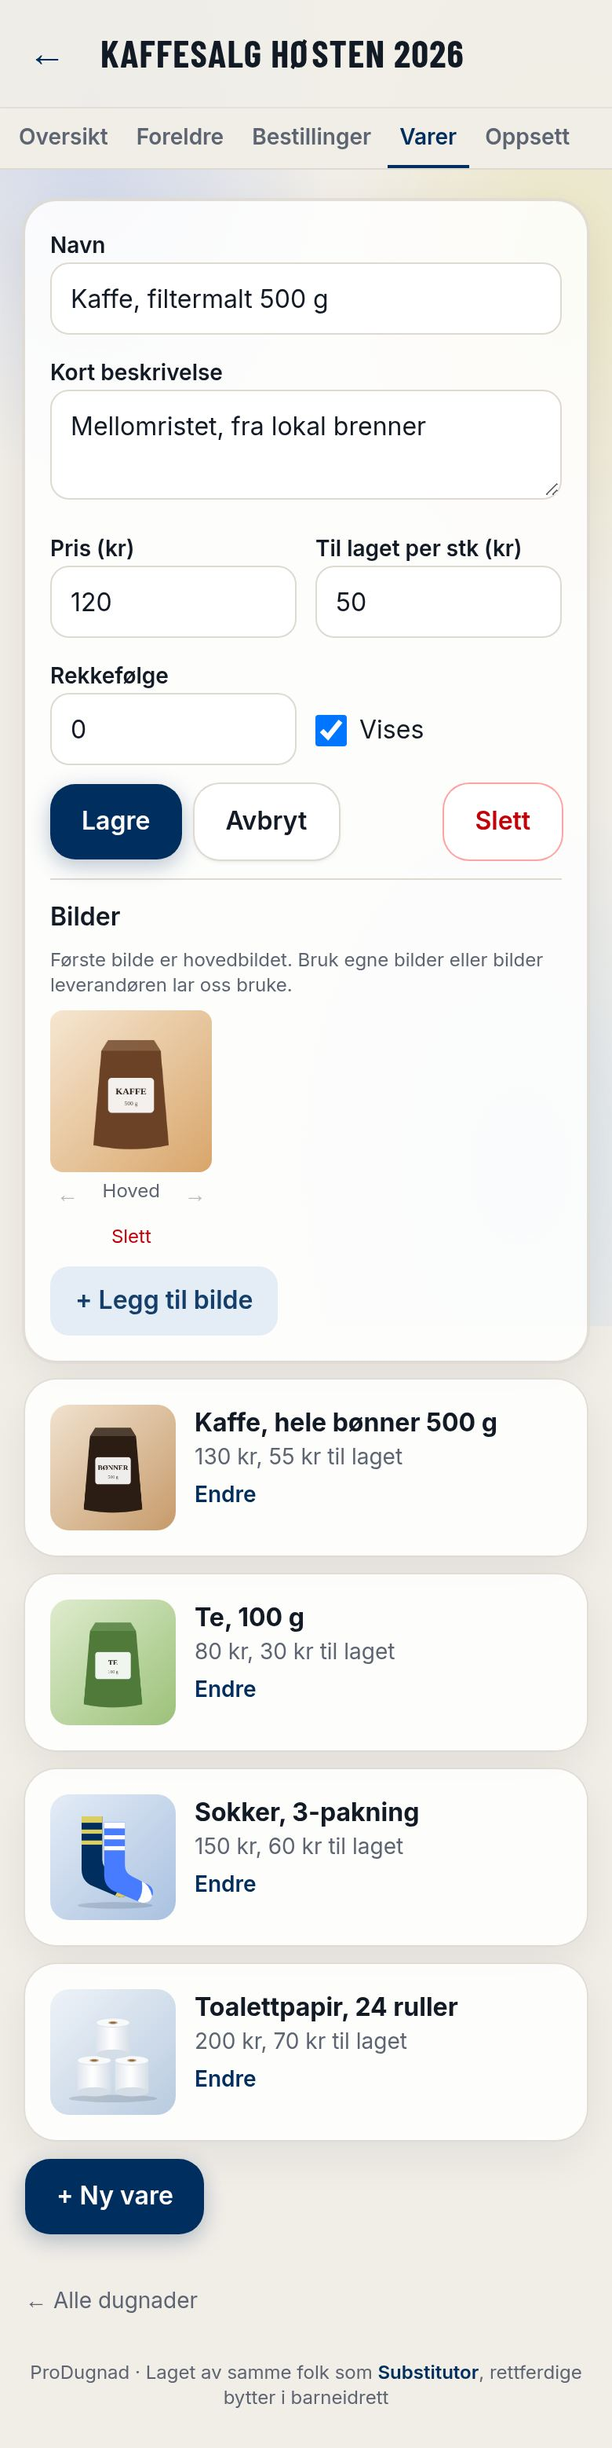
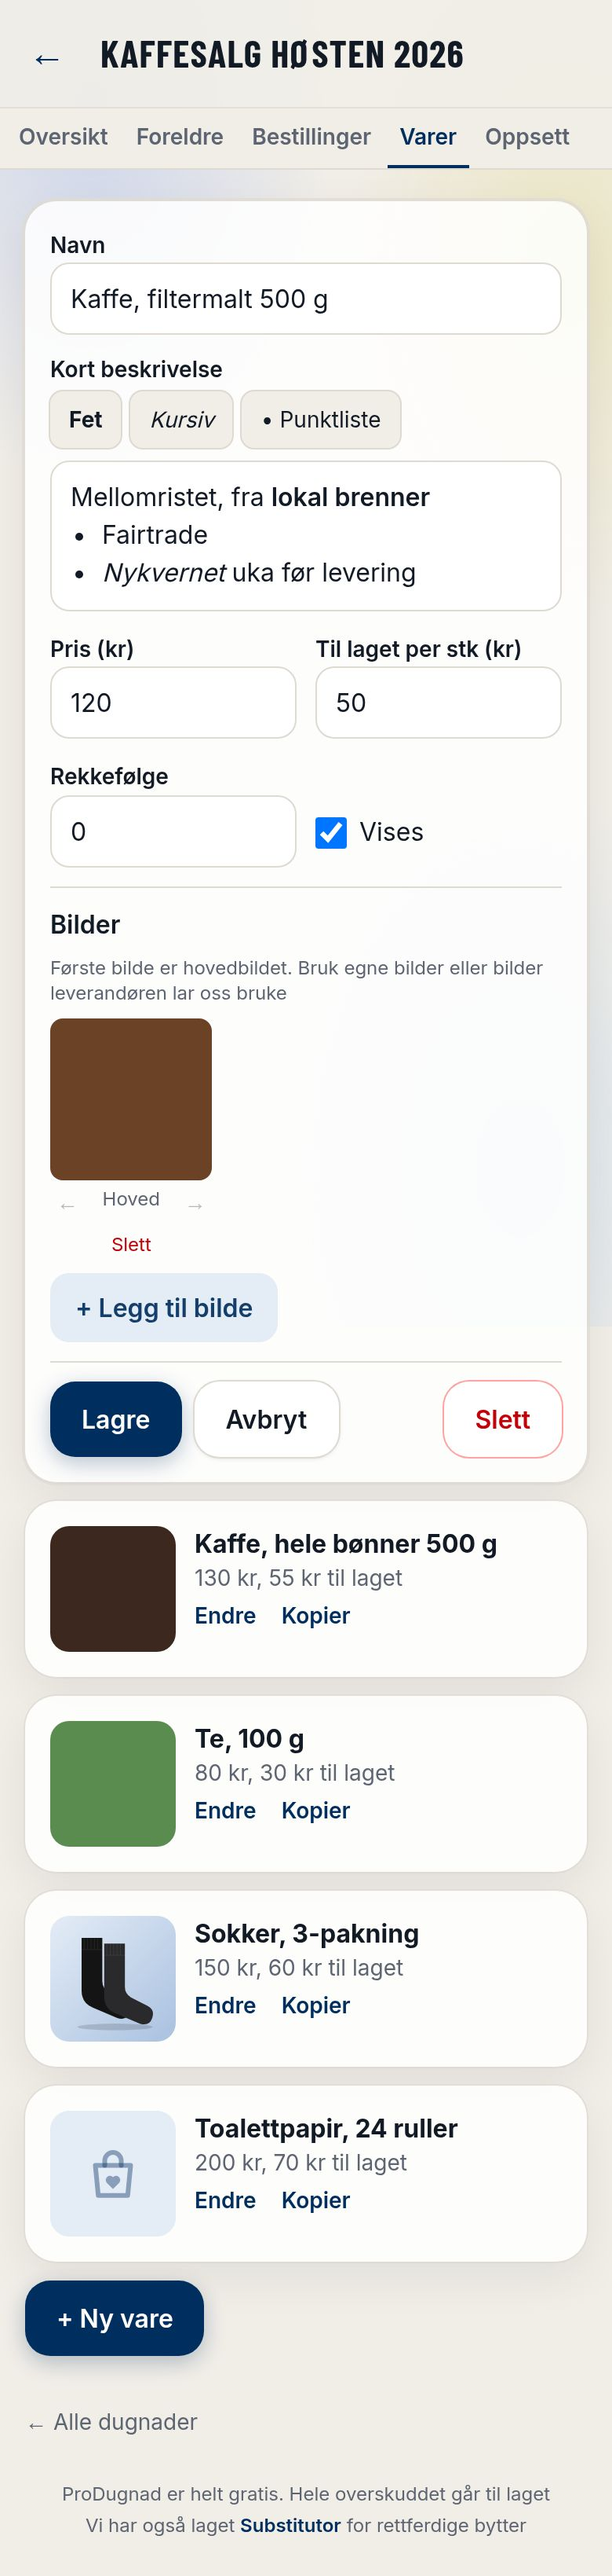
Docs: texts and screenshots for deleting a dugnad, copying products, the description editor and removing parents; log of 21 November

diff --git a/docs/tekster.md b/docs/tekster.md
@@ -1,6 +1,6 @@
 # ProDugnad: all texts
 
-Every text in the app, the emails and the link previews, as of 7 November 2026, with screenshots from the test data (tap a picture to see it full size). Numbered so changes can be referred to ("#23 → …"). Words in *italics* are filled in by the app; the examples use Ola Hansen, Emma, Kari Nordmann and Ready G2018.
+Every text in the app, the emails and the link previews, as of 22 November 2026, with screenshots from the test data (tap a picture to see it full size). Numbered so changes can be referred to ("#23 → …"). Words in *italics* are filled in by the app; the examples use Ola Hansen, Emma, Kari Nordmann and Ready G2018.
 
 ## A. Friend order page (`/k/…`), the page most people see
 
@@ -15,7 +15,7 @@ Every text in the app, the emails and the link previews, as of 7 November 2026, 
 | A3 | Under the title | Du bestiller via **Ola Hansen**, forelder til Emma |
 | A4 | Under that | *Alt overskudd går til cupavgifter og reiser for laget i 2027* |
 | A6 | Above the products | Bestill innen 20. november 2026 |
-| A7 | Product card | *Kaffe, filtermalt 500 g* / *Mellomristet, fra lokal brenner* / *120 kr* |
+| A7 | Product card | *Kaffe, filtermalt 500 g* / *Mellomristet, fra lokal brenner* (the description can have **fet**, *kursiv* and bullet points) / *120 kr* |
 | A8 | Total box | Totalt |
 | A9 | Name field | Fornavnet ditt |
 | A10 | Button | Bestill |
@@ -197,9 +197,9 @@ Every text in the app, the emails and the link previews, as of 7 November 2026, 
 
 ## I. Admin: a campaign
 
-<p><a href="screenshots/i-oversikt.jpg"><img src="screenshots/i-oversikt.jpg" width="230" alt="Oversikt" title="Oversikt"></a> <a href="screenshots/i-foreldre.jpg"><img src="screenshots/i-foreldre.jpg" width="230" alt="Foreldre (åpnet)" title="Foreldre (åpnet)"></a> <a href="screenshots/i-bestillinger.jpg"><img src="screenshots/i-bestillinger.jpg" width="230" alt="Bestillinger" title="Bestillinger"></a> <a href="screenshots/i-varer.jpg"><img src="screenshots/i-varer.jpg" width="230" alt="Varer" title="Varer"></a> <a href="screenshots/i-vare-endre.jpg"><img src="screenshots/i-vare-endre.jpg" width="230" alt="Endre vare med bilder" title="Endre vare med bilder"></a> <a href="screenshots/i-oppsett.jpg"><img src="screenshots/i-oppsett.jpg" width="230" alt="Oppsett" title="Oppsett"></a> <a href="screenshots/i-oppsett-hva-som-vises.jpg"><img src="screenshots/i-oppsett-hva-som-vises.jpg" width="230" alt="Hva som vises" title="Hva som vises"></a> <a href="screenshots/i-avslutning.jpg"><img src="screenshots/i-avslutning.jpg" width="230" alt="Etter avslutning" title="Etter avslutning"></a> <a href="screenshots/i-alle-pakkelister.jpg"><img src="screenshots/i-alle-pakkelister.jpg" width="230" alt="Pakkeliste per forelder" title="Pakkeliste per forelder"></a></p>
+<p><a href="screenshots/i-oversikt.jpg"><img src="screenshots/i-oversikt.jpg" width="230" alt="Oversikt" title="Oversikt"></a> <a href="screenshots/i-foreldre.jpg"><img src="screenshots/i-foreldre.jpg" width="230" alt="Foreldre (åpnet)" title="Foreldre (åpnet)"></a> <a href="screenshots/i-bestillinger.jpg"><img src="screenshots/i-bestillinger.jpg" width="230" alt="Bestillinger" title="Bestillinger"></a> <a href="screenshots/i-varer.jpg"><img src="screenshots/i-varer.jpg" width="230" alt="Varer" title="Varer"></a> <a href="screenshots/i-vare-endre.jpg"><img src="screenshots/i-vare-endre.jpg" width="230" alt="Endre vare med bilder" title="Endre vare med bilder"></a> <a href="screenshots/i-oppsett.jpg"><img src="screenshots/i-oppsett.jpg" width="230" alt="Oppsett" title="Oppsett"></a> <a href="screenshots/i-slett-dugnad-knapp.jpg"><img src="screenshots/i-slett-dugnad-knapp.jpg" width="230" alt="Slett dugnaden (Oppsett, nederst)" title="Slett dugnaden (Oppsett, nederst)"></a> <a href="screenshots/i-slett-dugnad.jpg"><img src="screenshots/i-slett-dugnad.jpg" width="230" alt="Slette dugnaden? (skriv navnet)" title="Slette dugnaden? (skriv navnet)"></a> <a href="screenshots/i-fjern-forelder.jpg"><img src="screenshots/i-fjern-forelder.jpg" width="230" alt="Fjerne forelder? (skriv navnet)" title="Fjerne forelder? (skriv navnet)"></a> <a href="screenshots/i-oppsett-hva-som-vises.jpg"><img src="screenshots/i-oppsett-hva-som-vises.jpg" width="230" alt="Hva som vises" title="Hva som vises"></a> <a href="screenshots/i-avslutning.jpg"><img src="screenshots/i-avslutning.jpg" width="230" alt="Etter avslutning" title="Etter avslutning"></a> <a href="screenshots/i-alle-pakkelister.jpg"><img src="screenshots/i-alle-pakkelister.jpg" width="230" alt="Pakkeliste per forelder" title="Pakkeliste per forelder"></a></p>
 
-<sub>Oversikt · Foreldre (åpnet) · Bestillinger · Varer · Endre vare med bilder · Oppsett · Hva som vises · Etter avslutning · Pakkeliste per forelder</sub>
+<sub>Oversikt · Foreldre (åpnet) · Bestillinger · Varer · Endre vare med bilder · Oppsett · Slett dugnaden (Oppsett, nederst) · Slette dugnaden? (skriv navnet) · Fjerne forelder? (skriv navnet) · Hva som vises · Etter avslutning · Pakkeliste per forelder</sub>
 
 | # | Where | Text |
 |---|---|---|
@@ -216,12 +216,13 @@ Every text in the app, the emails and the link previews, as of 7 November 2026, 
 | I8 | Confirms | Låse bestillingene? Foreldre og venner kan ikke bestille eller endre etterpå · Låse opp bestillingene igjen? · Avslutte dugnaden? Avslutningsmeldingen vises da på alle sider · Åpne dugnaden igjen? |
 | I9 | Foreldre tab | Pakkeliste for alle foreldre → · Navn / Mest til laget · Emma · 6 bestillinger · **765 kr** til laget · Ola Hansen D-1 · Emma · 4 bestillinger · 0 kr / 1 370 kr · Oppgjort / Skylder 1 370 kr / Betalt 200 kr for mye |
 | I28 | Packing list for admins (per forelder) | Pakkeliste · 1 av 2 poser pakket / Alt er pakket (2 poser) · Igjen å pakke (12 stk) · Én pose per forelder. Trykk når posen er pakket. Se fordelingen per venn under hver forelder · Lise Berg · Jonas · 5 × Kaffe · 5 stk · Sendt · Fordeling per venn (1) → · Ingen bestillinger ennå |
-| I10 | Opened parent | Betalinger · Ingen registrert · Beløp (kr) · Dato · Registrer betaling fra Ola · Slett · Merk varer sendt / Varer sendt 7. november 2026 (angre) · Pakkeliste · Se forelderens side → |
+| I10 | Opened parent | Betalinger · Ingen registrert · Beløp (kr) · Dato · Registrer betaling fra Ola · Slett · Merk varer sendt / Varer sendt 7. november 2026 (angre) · Pakkeliste · Se forelderens side → · Fjern fra dugnaden |
 | I11 | Confirms | Slette denne betalingen? · Merke at varene er sendt til Ola Hansen? Forelderen får e-post |
+| I30 | Remove a parent (confirm) | Fjerne *Ola Hansen* fra dugnaden? · Dette slettes for godt: *4 bestillinger (565 kr til laget)* og *1 betaling (200 kr)* / Forelderen har ingen bestillinger eller betalinger. Bestillingslenken slutter å virke. Brukeren beholdes, så forelderen kan melde seg på igjen · Skriv «*Ola Hansen*» for å bekrefte (only when there are orders or payments) · Avbryt · Fjern |
 | I12 | Empty | Ingen foreldre har meldt seg på ennå. Del påmeldingslenken fra Oversikt |
 | I13 | Bestillinger tab | Alle foreldre · Alle typer · Alle / Ubetalt / Betalt / Levert · 5 bestillinger, 1 970 kr · D-1 · K7 · Kari · via Ola Hansen · 7. nov., 10:17 |
-| I14 | Varer tab | 120 kr, 50 kr til laget · Skjult · Endre · + Ny vare |
-| I15 | Product form | Navn · Kort beskrivelse · Pris (kr) · Til laget per stk (kr) · Rekkefølge · Vises · Lagre · Avbryt · Slett |
+| I14 | Varer tab | 120 kr, 50 kr til laget · Skjult · Endre · Kopier / Kopierer … · + Ny vare · A copy is called *Kaffe, filtermalt 500 g* (kopi), starts hidden and opens for editing |
+| I15 | Product form | Navn · Kort beskrivelse (with the buttons Fet · Kursiv · • Punktliste; what you see is what friends see) · Pris (kr) · Til laget per stk (kr) · Rekkefølge · Vises · then the pictures (I16) · Lagre · Avbryt · Slett at the bottom |
 | I16 | Pictures | Bilder · Første bilde er hovedbildet. Bruk egne bilder eller bilder leverandøren lar oss bruke · Hoved · Gjør til hoved · Slett · + Legg til bilde · Laster opp … · Lagre varen først, så kan du legge til bilder |
 | I17 | Product errors | Beløpet til laget kan ikke være høyere enn prisen · Slette *Kaffe*? Går ikke hvis noen har bestilt den; skjul den i stedet · Kan ikke slette en vare som er bestilt. Fjern haken for «Vises» i stedet · Slette bildet? |
 | I18 | Oppsett: sections | Om dugnaden · Betaling fra foreldre · Tekster foreldrene deler · Avslutning |
@@ -231,6 +232,7 @@ Every text in the app, the emails and the link previews, as of 7 November 2026, 
 | I25 | Oppsett: Hva som vises | Fremdrift (Linjen med penger til laget og målet, for eksempel «815 kr til laget av 30 000 kr») · Bidrag per vare (For eksempel «50 kr av hver pose på 120 kr går til laget». Med «Alle» vises det også når lenken deles) · Ansvarlige og kontakt (Navn, rolle og telefon (hvis den enkelte har valgt det) for de ansvarlige. Med «Alle» svarer venner på e-post til kontaktpersonen, ellers til forelderen) · Ikke vist / Foreldre og admin / Alle, også venner · Som admin ser du alltid alt under Oversikt |
 | I22 | Oppsett: closing | Avslutningsmelding (Vises på alle sider når dugnaden er avsluttet: hvor mye som ble samlet inn og hva det betaler) |
 | I23 | Oppsett: button | Opprett dugnaden / Lagre / Lagret ✓ |
+| I29 | Oppsett: delete (bottom, existing campaigns only) | Slett dugnaden · Sletter dugnaden med varer, bilder, bestillinger og betalinger for godt. Vil du bare stoppe bestillingene, bruk «Avslutt dugnaden» under Oversikt · Slett dugnaden / Sletter … · Confirm: Slette *Kaffesalg høsten 2026*? · Varer, bilder, foreldrenes lenker, bestillinger og betalinger slettes for godt. Vennenes lenker slutter å virke. Foreldrenes brukere beholdes. Dette kan ikke angres · Skriv «*Kaffesalg høsten 2026*» for å bekrefte · Avbryt · Slett |
 | I24 | New campaign: defaults | Kaffesalg · Foreldre og supportere av … · Alt overskudd går til cupavgifter og reiser for laget |
 
 ## J. Default share texts (new campaigns; admins can change them under Oppsett)
@@ -305,4 +307,5 @@ Every text in the app, the emails and the link previews, as of 7 November 2026, 
 | M17 | Crash | Noe gikk galt · Siden kunne ikke vises. Prøv å laste inn på nytt. Hjelper ikke det, ta kontakt med de ansvarlige · Last inn på nytt |
 | M18 | After an update | Ny versjon · Appen er oppdatert. Last inn siden på nytt for å fortsette |
 | M19 | Unknown page | Fant ikke siden |
-| M20 | Confirm dialog (the app's own, never the browser's) | *the question* · Avbryt · *Slett / Lås / Lås opp / Avslutt / Åpne igjen / Send / Merk sendt / Gjør til admin / Fjern admin* |
+| M20 | Confirm dialog (the app's own, never the browser's) | *the question* · Avbryt · *Slett / Lås / Lås opp / Avslutt / Åpne igjen / Send / Merk sendt / Gjør til admin / Fjern admin / Fjern* · For things that can't be undone: Skriv «*navn*» for å bekrefte (the red button stays grey until the name is typed; capitals don't matter) |
+| M21 | Delete dugnad, wrong name | Navnet stemmer ikke med dugnadens navn |

diff --git a/docs/plan.md b/docs/plan.md
@@ -71,6 +71,8 @@ Also built early (phase 2 items that were cheap): lock/unlock and close, supplie
 - 21 Nov 2026: admins can delete a whole dugnad (Oppsett, bottom: «Slett dugnaden»). The confirm dialog asks them to type the dugnad's name (`typeToConfirm` in `Confirm.tsx`), checked again in SQL (`delete_campaign`, migration `20261121000001`). Products, pictures (also removed from storage), parents' links, orders, payments and queued emails go; parents' logins stay
 - 21 Nov 2026: products can be copied (Varer: «Kopier» next to «Endre»): «… (kopi)», hidden, opens for editing, with its own copies of the pictures. «Kort beskrivelse» is rich text: a what-you-see editor (contenteditable) whose Fet, Kursiv, Punktliste buttons switch on and off, pasted text comes in plain; stored as a small markdown subset (`**fet**`, `*kursiv*`, `- ` lines) and drawn by `components/RichText.tsx` as React elements, never HTML. Visibility choice renamed «Foreldre og admin». Product form: Lagre/Avbryt/Slett below the pictures
 - 21 Nov 2026, later: admins can remove a parent from a dugnad (Foreldre → open the parent → «Fjern fra dugnaden»; admin delete policy on `campaign_parents`, migration `20261121000002`). Their orders, payments and queued emails go, the login stays so they can join again; typing the name is required when they have orders or payments
+- 21 Nov 2026, evening: product names keep their capitals in «… av hver *Pals Julekaffe Filtermalt 250g* på 125 kr går til laget» (friend pages and link previews). Footer on every page, also when product information is hidden: «ProDugnad er helt gratis. Hele overskuddet går til laget». The CI run for that push failed once on GitHub's side (port 54322 already in use on the runner, before any test ran); a rerun passed
+- 22 Nov 2026: `docs/tekster.md` brought up to date (I14, I15, I29, I30, M20, M21, new screenshots); README test count 45
 - **Next:** the owner's real test run on a phone with the live campaign (join, order as a friend, tick paid, register payment, lock, close). Owner: set Supabase Auth → Rate Limits → emails per hour to 10.
 
 ## Ideas (not built; may never be built)

diff --git a/README.md b/README.md
@@ -32,7 +32,7 @@ To test on a phone on the same wifi, use the laptop's IP address instead of `loc
 
 ```bash
 npm test          # formatting and share-text tests
-npm run test:db   # security tests against the local database: friend, parent and admin (41)
+npm run test:db   # security tests against the local database: friend, parent and admin (45)
 npx supabase test db   # guard: every table has row level security, friends can only call the public functions
 ```
 
